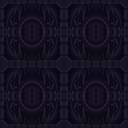
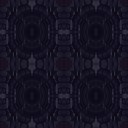
Re-roll crypt and wysoom images; raji status bar uses ornate Arabian brocade (seed 42); per-image prompt override
Claude-Session: https://claude.ai/code/session_01TAVsPpnddXJ6ANzPrzmprc

diff --git a/tools/theme-art/generate.py b/tools/theme-art/generate.py
@@ -26,9 +26,9 @@ NEGATIVE = ("smooth, blurry, anti-aliased, photo, realistic, 3d, perspective, te
 
 MOTIF = {
     "welstar": "white marble and gold trim, paladin heraldry with shields, swords and laurel wreaths, fluted columns, noble and orderly",
-    "crypt": "vampire crypt, black-violet stone and bone, blood crimson accents, small bats and fangs, stalactite arches, gothic and cold",
+    "crypt": "vampire crypt, black-violet stone and bone white, rich blood crimson red accents and trim, small bats and fangs, stalactite arches, gothic and cold",
     "sosel": "volcano and jungle, black basalt with glowing lava cracks, dinosaur claw and scale patterns, fern leaves, hot and fierce",
-    "wysoom": "deep ocean, coral and polished shells, shark fins and shark teeth, rolling waves, blue and glowing",
+    "wysoom": "deep ocean using only cyan, teal and deep blue colors with white sea foam, no pink, no red, no orange, shark fins and rows of shark teeth, polished shells, rolling waves, glowing blue",
     "raji": "sky and djinn, Arabian arches and filigree, drifting clouds and stars, lamp and smoke swirls, gold trim, twilight and magical",
     "perdow": "darkness and carnivorous plants, thorny vines, venus flytrap jaws, pitcher plants with dripping toxic green, crimson flower maws, sinister",
 }
@@ -49,6 +49,13 @@ ROLES = {
 }
 # Slices (top, right, bottom, left) in art pixels. Must match NINE in src/scripts/theme/logic.lua.
 # The window role is a tile at its own size, so it has no slices.
+# Role text for one image that needs its own idea. It replaces the role text of ROLES.
+ROLE_OVERRIDE = {
+    ("raji", "statusbar"): "a wide ornate Arabian brocade ribbon bar, 64x32 pixels, rich repeating gold arabesque "
+        "and damask floral pattern in the style of woven brocade silk, deep indigo and violet cloth with gold thread, "
+        "the pattern runs along the top band and the bottom band and fills the 16 pixel end caps, "
+        "a plain flat dark center strip",
+}
 SLICE = {"window": None, "panel": (16, 16, 16, 16), "statusbar": (8, 16, 8, 16),
          "button": (12, 12, 12, 12), "tab": (8, 8, 8, 8), "tabActive": (8, 8, 8, 8)}
 
@@ -72,7 +79,7 @@ def prompt(theme, role, pal):
     p = pal[theme]
     colors = (f"Base colors {hexc(p['surface'])} and {hexc(p['surfaceAlt'])}, border {hexc(p['border'])}, "
               f"accent {hexc(p['accent'])}.")
-    return f"{STYLE}. THEME {theme}: {colors} {MOTIF[theme]}. ROLE {role}: {ROLES[role][4]}."
+    return f"{STYLE}. THEME {theme}: {colors} {MOTIF[theme]}. ROLE {role}: {ROLE_OVERRIDE.get((theme, role), ROLES[role][4])}."
 
 
 def lin(c):

diff --git a/doc/spec/theming.md b/doc/spec/theming.md
@@ -161,6 +161,8 @@ The motifs follow the planet style guide:
 | `sosel` | Volcano and jungle, black basalt with glowing lava cracks, dinosaur claw and scale patterns, fern leaves |
 | `wysoom` | Deep ocean, coral and polished shells, shark fins and shark teeth, rolling waves |
 | `raji` | Sky and djinn, Arabian arches and filigree, drifting clouds and stars, lamp and smoke swirls, gold trim |
+
+The `raji` status bar has its own role text in the script (`ROLE_OVERRIDE`): ornate Arabian brocade in gold thread on deep indigo, with the pattern in the top band, the bottom band, and the end caps. The player chose seed 42 out of four. Any other image can get an override in the same way.
 | `perdow` | Darkness and carnivorous plants, thorny vines, venus flytrap jaws, pitcher plants with dripping toxic green, crimson flower maws |
 
 ## 8. Look of an `Adjustable.Container`
